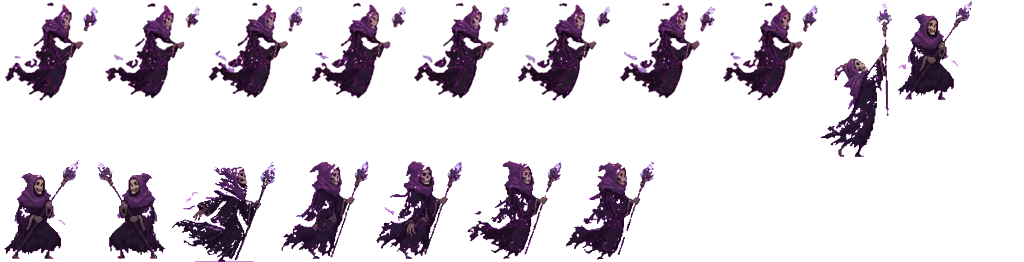
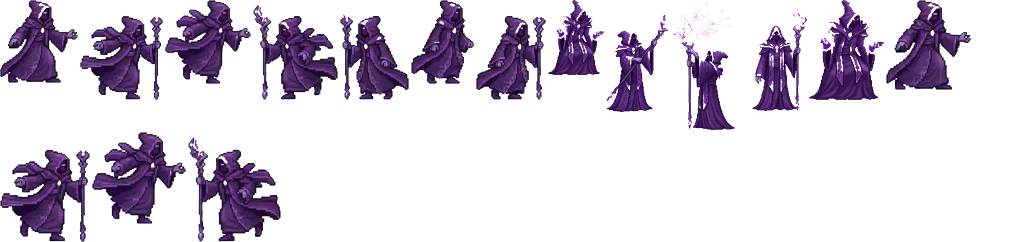
Monstruos y jefes rehechos en el estilo actual, retratos de jefes y música nueva
- Los 15 monstruos, Guardianes y Súper Jefes del Acto I rediseñados (Leonardo) con el mismo
  estilo que los de los mundos nuevos, con animaciones de movimiento y ataque
- Retratos de los Súper Jefes para los diálogos
- Música propia para Ciudad Hundida, Bosque de Cristal y la Ciudadela
- La misión personal del héroe se ofrece al terminar los diálogos

Claude-Session: https://claude.ai/code/session_015RNUyaQ6fKR3Ufego5oPP2

diff --git a/www/js/mon_data.js b/www/js/mon_data.js
@@ -1,3 +1,3 @@
 /* Generado por tools/art/build_monsters.py y build_monsters2.py — no editar a mano. */
 'use strict';
-const MON_ANIM = {"tofu":{"bh":100,"move":[[0,0,112,80,47.0,79.8],[114,0,114,100,51.9,99.4],[230,0,118,103,56.9,102.4],[350,0,123,108,57.3,107.1],[475,0,115,88,50.7,87.5],[592,0,115,100,51.5,99.4],[709,0,115,107,58.1,106.5],[826,0,133,102,63.8,101.2],[0,110,115,87,49.7,86.3],[117,110,114,105,56.7,104.2],[233,110,112,115,56.3,114.3],[347,110,129,119,61.0,118.5]],"attack":[[478,110,155,88,59.4,87.6],[635,110,139,101,66.4,100.9],[776,110,156,104,71.0,103.4],[0,231,140,133,52.7,132.5]],"hurt":[[142,231,136,101,73.4,100.4]]},"bouftou":{"bh":100,"move":[[0,0,133,101,56.0,100.6],[135,0,133,101,50.3,100.0],[270,0,134,101,51.9,100.0],[406,0,136,101,53.5,100.0]],"attack":[[544,0,130,97,54.6,96.1],[676,0,131,95,71.4,94.8],[809,0,131,110,47.5,109.7],[0,112,131,102,57.7,101.3],[133,112,131,101,53.7,100.0]],"hurt":[[266,112,122,100,48.8,100.0]]},"arakne":{"bh":100,"move":[[0,0,116,95,46.5,94.9],[118,0,98,100,41.6,100.0],[218,0,113,100,44.8,100.0],[333,0,96,101,40.3,100.5]],"attack":[[431,0,98,100,41.6,99.8],[531,0,96,101,40.2,100.2]],"hurt":[[629,0,154,100,49.3,100.0]]},"pissenlit":{"bh":100,"move":[[0,0,92,100,33.5,100.0],[94,0,92,100,30.6,100.0],[188,0,92,101,31.5,100.8],[282,0,92,101,33.0,100.8],[376,0,92,100,31.9,100.0],[470,0,92,101,32.4,100.4],[564,0,92,100,33.8,99.6],[658,0,92,100,31.7,100.0]],"attack":[[752,0,70,100,36.0,100.0],[824,0,71,100,36.0,100.0],[0,103,218,100,34.1,100.0]],"hurt":[[220,103,94,100,34.6,100.0]]},"craqueleur":{"bh":100,"move":[[0,0,85,99,41.0,98.5],[87,0,85,99,40.4,98.9],[174,0,88,99,42.7,98.9],[264,0,87,99,42.4,98.9],[353,0,89,102,43.2,101.5],[444,0,85,103,41.0,102.6],[531,0,88,101,42.9,101.1],[621,0,84,102,41.7,101.5]],"attack":[[707,0,88,100,42.5,99.2],[797,0,88,100,42.7,99.2],[887,0,82,126,43.2,125.6],[0,128,85,109,52.2,108.3],[87,128,88,100,42.3,100.0],[177,128,88,100,42.6,100.0],[267,128,88,100,42.8,100.0],[357,128,85,100,42.2,100.0]],"hurt":[[444,128,103,100,54.8,100.0]]},"bouftouRoyal":{"bh":100,"move":[[0,0,121,100,47.6,99.5],[123,0,121,100,46.8,100.0],[246,0,121,100,44.8,99.5],[369,0,121,100,46.3,100.0],[492,0,121,101,45.1,100.5],[615,0,121,101,47.1,100.5],[738,0,121,100,42.9,100.0],[861,0,121,101,43.8,100.5]],"attack":[[0,103,94,116,58.9,115.6],[96,103,132,101,49.8,101.1],[230,103,89,99,32.5,98.9],[321,103,174,98,87.5,97.4],[497,103,145,103,74.9,103.0],[644,103,169,96,78.6,95.9]],"hurt":[[815,103,106,100,35.0,100.0]],"idle":[[0,221,116,100,71.3,100.0],[118,221,118,100,72.2,100.0],[238,221,117,100,71.8,100.0],[357,221,117,100,71.8,99.6]]},"reinaTeje":{"bh":100,"move":[[0,0,101,101,41.9,100.4],[103,0,101,100,41.8,100.0],[206,0,101,100,41.2,100.0],[309,0,100,100,41.5,100.0],[411,0,101,100,41.7,100.0],[514,0,101,100,41.8,99.6],[617,0,101,100,41.2,100.0],[720,0,100,100,40.9,99.6],[822,0,101,100,41.2,100.0],[0,103,101,101,41.9,100.4],[103,103,101,100,41.2,100.0],[206,103,100,98,41.8,97.9]],"attack":[[308,103,97,100,39.7,99.1],[407,103,97,97,39.9,96.6],[506,103,97,105,39.9,104.7],[605,103,97,113,40.0,112.3],[704,103,97,100,39.6,100.0],[803,103,97,100,39.5,100.0],[902,103,97,109,39.8,108.9],[0,218,97,100,39.9,100.0]],"hurt":[[99,218,94,100,44.5,100.0]],"idle":[[195,218,98,100,41.9,100.0],[295,218,100,100,41.3,100.0],[397,218,98,100,41.7,100.0],[497,218,100,100,41.0,100.0]]},"colosoHielo":{"bh":100,"move":[[0,0,96,100,53.0,100.0],[98,0,99,103,43.6,102.8],[199,0,98,100,39.2,99.6],[299,0,99,103,43.2,102.4],[400,0,97,100,41.8,99.6],[499,0,97,100,38.4,100.0],[598,0,98,100,40.1,100.0],[698,0,98,100,40.5,100.0],[798,0,98,101,39.4,100.4],[898,0,97,100,38.7,100.0],[0,105,98,100,39.2,100.0],[100,105,98,101,40.3,100.4]],"attack":[[200,105,137,102,75.2,101.3],[339,105,96,122,39.1,121.6],[437,105,115,103,41.5,102.1],[554,105,105,100,60.8,100.0],[661,105,125,102,66.9,101.3],[788,105,107,100,37.5,100.0],[897,105,115,100,71.9,99.2],[0,229,105,100,53.6,99.6],[107,229,91,94,49.4,93.2]],"hurt":[[200,229,103,100,43.1,100.0]],"idle":[[305,229,96,100,42.1,100.0],[403,229,96,100,42.0,100.0],[501,229,91,101,42.6,100.4],[594,229,96,100,41.9,100.0]]},"tofuRoyal":{"bh":100,"move":[[0,0,79,120,34.4,119.3],[81,0,109,93,57.0,93.0],[192,0,96,101,41.5,100.9],[290,0,86,104,34.6,103.1],[378,0,86,115,35.2,114.9],[466,0,78,68,68.7,67.1],[546,0,78,86,42.9,86.0],[626,0,95,100,44.7,99.1]],"attack":[[723,0,90,96,51.7,96.0],[815,0,94,101,35.2,100.4],[911,0,93,102,38.9,102.0],[0,122,65,116,30.8,115.9],[67,122,104,72,24.8,71.7],[173,122,106,54,30.3,53.4],[281,122,103,96,52.0,95.6],[386,122,102,100,27.7,100.0],[490,122,102,121,59.6,120.7]],"hurt":[[594,122,100,100,27.2,100.0]],"idle":[[696,122,97,103,40.9,102.7],[795,122,93,98,42.1,97.3],[890,122,125,108,30.0,107.2],[0,245,93,97,41.8,96.3]]},"hechicero":{"bh":100,"move":[[0,0,99,101,42.9,100.0],[101,0,100,101,43.5,100.7],[203,0,101,101,44.5,100.7],[306,0,101,101,43.9,100.0],[409,0,101,101,43.8,100.0],[512,0,101,101,43.9,100.0],[615,0,101,101,43.5,100.0],[718,0,100,101,43.6,100.0]],"attack":[[820,0,72,157,31.0,157.2],[894,0,79,100,33.4,99.5],[0,159,94,100,33.8,99.8],[96,159,74,100,39.9,100.2]],"hurt":[[172,159,107,103,48.8,102.8]],"idle":[[281,159,88,100,32.4,100.0],[371,159,91,100,35.7,100.0],[464,159,98,100,43.6,100.0],[564,159,91,101,34.3,100.3]]},"S_ceniza":{"bh":100,"move":[[0,0,98,100,43.1,99.1],[100,0,101,100,42.4,99.1],[203,0,99,100,43.3,99.7],[304,0,100,101,34.3,100.3],[406,0,101,102,36.0,100.9],[509,0,98,101,37.7,100.3]],"attack":[[609,0,92,102,45.2,101.5],[703,0,87,102,42.8,101.9],[792,0,97,100,50.8,99.6],[891,0,88,97,48.6,96.9],[0,104,89,101,45.2,100.8],[91,104,90,101,46.5,100.4],[183,104,92,101,45.9,100.4],[277,104,90,98,33.9,98.1],[369,104,93,101,52.3,100.8],[464,104,93,101,50.6,100.4],[559,104,95,100,54.7,99.2],[656,104,88,98,29.6,98.1]],"hurt":[[746,104,81,100,33.3,100.0]],"idle":[[829,104,100,100,37.1,99.9],[0,207,100,100,37.3,99.9],[102,207,101,101,37.4,100.3],[205,207,100,100,37.4,100.1]]},"S_pantano":{"bh":100,"move":[[0,0,153,101,84.7,100.0],[155,0,153,101,85.1,100.0],[310,0,154,101,86.0,100.0],[466,0,154,101,85.9,100.0],[622,0,153,101,85.2,100.0],[777,0,152,101,84.2,100.0],[0,103,154,101,85.7,100.0],[156,103,155,102,87.8,100.9],[313,103,152,101,85.7,100.0],[467,103,158,101,86.8,100.0],[627,103,158,101,79.9,100.0],[787,103,158,101,85.6,100.0]],"attack":[[0,207,153,100,82.3,100.0],[155,207,155,101,84.5,101.0],[312,207,153,101,83.0,100.5],[467,207,160,97,47.7,96.1],[629,207,154,118,84.5,117.9],[785,207,152,100,83.1,99.5],[0,327,151,100,82.2,99.5],[153,327,154,121,84.3,120.8],[309,327,152,100,82.7,100.0]],"hurt":[[463,327,151,106,44.0,105.9]],"idle":[[616,327,153,100,84.9,99.7],[771,327,151,100,84.0,99.4],[0,450,152,101,84.5,100.3],[154,450,152,101,84.7,100.3]]},"S_glaciar":{"bh":100,"move":[[0,0,114,100,45.8,100.0],[116,0,114,100,45.9,100.0],[232,0,113,100,45.4,99.7],[347,0,114,100,45.6,100.0],[463,0,113,101,40.6,100.3],[578,0,114,100,46.0,100.0],[694,0,114,100,45.7,100.0],[810,0,114,100,46.1,100.0],[0,103,114,101,45.4,100.3]],"attack":[[116,103,91,99,50.0,98.4],[209,103,94,100,44.3,99.2],[305,103,90,140,45.9,139.9],[397,103,92,100,43.7,100.0],[491,103,95,100,44.8,99.2],[588,103,93,100,43.0,100.0],[683,103,101,101,56.1,100.8],[786,103,93,102,47.2,101.9]],"hurt":[[881,103,111,100,45.9,100.0]],"idle":[[0,245,115,101,46.4,100.8],[117,245,115,101,46.3,100.6],[234,245,115,100,46.2,99.4],[351,245,114,99,45.8,98.7]]},"S_desierto":{"bh":100,"move":[[0,0,79,100,36.7,100.0],[81,0,78,100,36.4,100.0],[161,0,79,96,36.3,95.6],[242,0,88,90,41.3,89.3],[332,0,78,100,36.1,100.0],[412,0,79,101,36.6,101.0],[493,0,79,102,36.3,101.3],[574,0,88,99,42.4,98.7],[664,0,79,101,36.4,101.0],[745,0,79,101,36.7,100.7],[826,0,79,101,36.5,100.3]],"attack":[[0,104,147,285,93.3,284.5],[149,104,61,100,26.8,100.1],[212,104,61,100,26.8,99.9],[275,104,72,102,38.6,101.3]],"hurt":[[349,104,98,100,46.1,100.0]],"idle":[[449,104,96,100,45.2,99.3],[547,104,96,99,45.3,99.1],[645,104,97,101,45.7,100.7],[744,104,97,101,45.9,100.7]]},"S_abismo":{"bh":100,"move":[[0,0,89,101,41.1,100.2],[91,0,90,101,41.0,100.2],[183,0,89,101,41.0,100.2],[274,0,89,101,40.8,100.2],[365,0,90,100,40.7,99.8],[457,0,90,100,41.3,99.8],[549,0,89,100,40.7,99.8],[640,0,89,100,40.8,99.8]],"attack":[[731,0,83,144,34.1,143.6],[816,0,82,176,31.9,176.0],[900,0,110,104,48.2,103.2],[0,178,85,104,41.5,103.2],[87,178,104,97,49.7,96.8],[193,178,79,97,36.1,96.8],[274,178,79,97,30.5,96.8],[355,178,90,97,52.4,96.8]],"hurt":[[447,178,94,100,45.3,100.0]],"idle":[[543,178,58,100,24.3,100.0],[603,178,57,100,24.2,100.0],[662,178,58,100,24.6,100.0],[722,178,58,100,24.3,100.0]]},"cangrejo":{"bh":100,"move":[[0,0,125,101,61.5,100.0],[127,0,127,100,51.6,99.3],[256,0,128,101,48.4,100.0],[386,0,125,101,62.1,100.0],[513,0,124,99,60.1,98.7],[639,0,126,101,62.4,100.0]],"attack":[[767,0,136,100,54.6,100.0],[0,103,138,100,54.8,100.0],[140,103,169,106,54.9,105.3],[311,103,137,99,66.5,98.6]],"hurt":[[450,103,136,100,54.6,100.0]],"idle":[[588,103,125,101,61.5,100.0],[715,103,127,100,51.6,99.3],[844,103,128,101,48.4,100.0],[0,211,125,101,62.1,100.0]]},"medusa":{"bh":100,"move":[[0,0,53,102,26.0,101.3],[55,0,48,99,24.8,98.7],[105,0,55,100,29.2,100.1],[162,0,61,100,33.6,100.1],[225,0,64,100,35.8,99.9],[291,0,50,99,23.9,99.0]],"attack":[[343,0,67,104,41.1,103.4],[412,0,81,88,50.1,87.8],[495,0,85,97,52.5,96.6],[582,0,78,105,35.1,104.4]],"hurt":[[662,0,65,100,39.8,100.0]],"idle":[[729,0,53,101,25.9,101.2],[784,0,48,99,24.7,98.6],[834,0,55,100,29.1,100.0],[891,0,61,100,33.6,100.0]]},"triton":{"bh":100,"move":[[0,0,105,100,41.2,99.0],[107,0,105,100,43.4,99.0],[214,0,104,102,41.9,101.4],[320,0,104,100,39.5,99.0],[426,0,105,101,39.3,101.0],[533,0,104,101,38.9,101.0]],"attack":[[639,0,99,97,47.6,97.1],[740,0,109,100,56.8,99.4],[851,0,109,104,52.8,103.9],[0,106,95,101,51.2,100.6]],"hurt":[[97,106,102,100,49.0,100.0]],"idle":[[201,106,106,100,41.6,100.0],[309,106,106,100,43.8,100.0],[417,106,105,103,42.3,102.4],[524,106,105,100,39.8,100.0]]},"kraken":{"bh":100,"move":[[0,0,110,99,59.4,98.4],[112,0,108,104,55.2,103.2],[222,0,103,104,49.0,103.2],[327,0,102,104,53.3,103.2],[431,0,102,100,55.7,100.0],[535,0,104,100,56.3,100.0],[641,0,103,100,55.2,100.0],[746,0,103,100,55.4,100.0]],"attack":[[851,0,98,100,43.9,100.2],[0,106,103,112,55.9,111.1],[105,106,98,96,49.9,95.8],[205,106,86,100,41.8,99.8]],"hurt":[[293,106,98,100,43.8,100.0]],"idle":[[393,106,107,96,57.6,95.4],[502,106,104,100,53.5,100.0],[608,106,100,100,47.5,100.0],[710,106,98,100,51.6,100.0]]},"S_hundida":{"bh":100,"move":[[0,0,74,100,42.3,100.0],[76,0,76,100,43.8,100.0],[154,0,77,100,43.0,100.0],[233,0,75,100,43.2,100.0],[310,0,76,100,44.6,100.0],[388,0,79,100,44.4,100.0]],"attack":[[469,0,78,107,38.8,106.6],[549,0,82,83,39.8,82.7],[633,0,87,106,47.1,105.3],[722,0,80,98,42.2,97.5]],"hurt":[[804,0,73,100,36.4,100.0]],"idle":[[879,0,74,100,42.3,100.0],[0,109,76,100,43.8,100.0],[78,109,77,100,43.0,100.0],[157,109,75,100,43.2,100.0]]},"duende":{"bh":100,"move":[[0,0,76,100,34.3,99.6],[78,0,82,105,40.7,105.0],[162,0,83,107,39.9,107.0],[247,0,84,99,41.0,98.4],[333,0,81,100,40.4,100.0],[416,0,74,100,34.3,100.0]],"attack":[[492,0,83,93,40.1,92.4],[577,0,94,100,35.7,98.3],[673,0,94,102,34.0,101.7],[769,0,82,103,45.6,102.8]],"hurt":[[853,0,90,100,43.4,100.0]],"idle":[[945,0,74,98,33.5,97.3],[0,109,80,103,39.8,102.7],[82,109,81,105,38.9,104.5],[165,109,83,97,40.1,96.2]]},"polilla":{"bh":100,"move":[[0,0,73,106,39.8,105.1],[75,0,18,62,14.0,61.8],[95,0,74,103,28.3,102.4],[171,0,70,101,44.9,100.4],[243,0,26,74,21.9,50.0],[271,0,64,100,29.5,99.6]],"attack":[[337,0,71,98,37.8,97.4],[410,0,80,110,44.9,109.2],[492,0,94,116,39.6,95.4],[588,0,70,103,35.8,102.6]],"hurt":[[660,0,73,100,38.8,100.0]],"idle":[[735,0,72,104,39.3,103.7],[809,0,17,61,13.8,61.0],[828,0,73,101,27.9,101.0],[903,0,70,99,44.3,99.0]]},"golemC":{"bh":100,"move":[[0,0,90,101,45.0,100.2],[92,0,85,100,39.7,99.8],[179,0,91,101,45.4,100.2],[272,0,87,101,37.9,100.2],[361,0,81,100,38.6,99.8],[444,0,90,100,47.7,99.8]],"attack":[[536,0,92,100,42.8,99.4],[630,0,101,101,44.0,100.6],[733,0,101,128,48.8,127.4],[836,0,89,100,49.6,99.4]],"hurt":[[927,0,93,100,43.0,100.0]],"idle":[[0,130,90,100,44.9,100.0],[92,130,85,100,39.7,99.6],[179,130,91,100,45.3,100.0],[272,130,87,100,37.8,100.0]]},"ciervo":{"bh":100,"move":[[0,0,67,100,26.9,100.0],[69,0,69,96,29.4,95.8],[140,0,61,106,24.3,106.0],[203,0,69,101,27.6,100.3],[274,0,73,100,27.1,100.0]],"attack":[[349,0,59,111,27.7,111.1],[410,0,62,95,37.8,94.8],[474,0,62,89,15.2,89.3],[538,0,55,111,23.5,110.7]],"hurt":[[595,0,53,100,24.9,100.0]],"idle":[[650,0,67,100,26.9,99.8],[719,0,69,96,29.3,95.6],[790,0,61,106,24.3,105.9],[853,0,69,100,27.6,100.2]]},"S_cristal":{"bh":100,"move":[[0,0,72,104,39.0,103.7],[74,0,58,103,31.5,102.6],[134,0,64,100,30.6,100.0],[200,0,64,99,27.7,98.9],[266,0,71,104,36.1,104.0]],"attack":[[339,0,64,95,28.6,95.1],[405,0,67,107,39.4,106.7],[474,0,76,98,27.8,97.9],[552,0,70,102,39.2,102.1]],"hurt":[[624,0,67,100,30.1,100.0]],"idle":[[693,0,72,105,39.2,104.3],[767,0,59,103,31.6,103.2],[828,0,65,101,30.8,100.6],[895,0,64,100,27.9,99.4]]},"guardiaR":{"bh":100,"move":[[0,0,64,102,33.1,101.8],[66,0,32,96,16.4,95.6],[100,0,66,99,35.5,98.5],[168,0,66,102,39.8,101.5],[236,0,33,102,25.0,101.5],[271,0,55,99,30.9,98.2]],"attack":[[328,0,99,99,50.6,98.9],[429,0,111,100,50.5,100.0],[542,0,111,100,50.4,100.0],[655,0,101,108,60.9,107.6]],"hurt":[[758,0,100,100,51.2,100.0]],"idle":[[860,0,64,102,33.1,101.8],[926,0,32,96,16.4,95.6],[0,110,66,99,35.5,98.5],[68,110,66,102,39.8,101.5]]},"ojo":{"bh":100,"move":[[0,0,111,101,48.7,100.0],[113,0,107,101,44.5,100.0],[222,0,111,101,48.7,100.0],[335,0,106,101,44.3,100.0],[443,0,111,101,50.5,100.0],[556,0,110,101,56.2,100.0]],"attack":[[668,0,115,101,50.9,100.4],[785,0,119,100,51.9,100.0],[0,103,127,100,55.4,99.6],[129,103,120,100,51.0,100.0]],"hurt":[[251,103,114,100,50.7,100.0]],"idle":[[367,103,111,101,48.7,100.0],[480,103,107,101,44.5,100.0],[589,103,111,101,48.7,100.0],[702,103,106,101,44.3,100.0]]},"sombraC":{"bh":100,"move":[[0,0,73,100,38.6,99.6],[75,0,73,100,38.3,100.0],[150,0,73,98,38.0,98.0],[225,0,72,98,38.1,98.0],[299,0,73,98,37.9,97.7],[374,0,72,98,37.9,97.7],[448,0,75,102,39.1,101.2],[525,0,75,102,39.4,101.2],[602,0,75,102,39.3,101.2],[679,0,76,101,38.1,100.8],[757,0,75,102,39.1,101.2]],"attack":[[834,0,88,100,39.0,100.0],[924,0,90,100,36.8,100.0],[0,104,95,100,44.6,100.0],[97,104,88,98,35.9,97.8]],"hurt":[[187,104,88,100,39.0,100.0]],"idle":[[277,104,74,101,39.1,100.8],[353,104,74,102,38.7,101.2],[429,104,74,100,38.5,99.2],[505,104,73,100,38.5,99.2]]},"carcelero":{"bh":100,"move":[[0,0,68,100,37.5,100.0],[70,0,71,101,42.4,100.4],[143,0,68,100,37.0,99.6],[213,0,70,100,42.3,99.6],[285,0,71,100,39.4,100.0],[358,0,67,101,37.4,100.4]],"attack":[[427,0,97,134,43.8,133.4],[526,0,90,108,33.7,107.6],[618,0,93,93,46.0,92.4],[713,0,108,92,49.4,91.7]],"hurt":[[823,0,73,100,32.8,100.0]],"idle":[[898,0,68,101,37.6,100.2],[0,136,71,101,42.5,100.6],[73,136,68,100,37.0,99.8],[143,136,70,100,42.4,99.8]]},"S_ciudadela":{"bh":100,"move":[[0,0,71,99,35.5,98.9],[73,0,66,103,36.1,102.2],[141,0,66,99,31.9,98.5],[209,0,67,111,37.1,109.3],[278,0,68,104,33.2,103.4],[348,0,70,102,31.6,101.5]],"attack":[[420,0,152,103,28.1,102.8],[574,0,226,108,190.8,107.4]],"hurt":[[802,0,148,100,27.3,100.0]],"idle":[[0,113,73,102,36.4,101.3],[75,113,68,105,37.0,104.8],[145,113,68,101,32.7,101.0],[215,113,69,114,38.1,112.0]]}};
+const MON_ANIM = {"tofu":{"bh":100,"move":[[0,0,72,108,38.5,107.3],[74,0,72,99,41.2,99.0],[148,0,71,103,40.2,102.6],[221,0,69,108,36.8,107.3],[292,0,68,101,36.0,100.6],[362,0,75,94,42.4,93.9],[439,0,80,96,48.5,95.8],[521,0,72,101,39.9,101.0]],"attack":[[595,0,83,128,45.5,127.4],[680,0,130,105,41.0,105.1],[0,130,212,103,174.7,102.5]],"hurt":[[214,130,65,100,35.7,100.0]],"idle":[[281,130,69,103,36.7,102.3],[352,130,69,95,39.3,94.3],[423,130,68,98,38.3,97.7],[493,130,66,103,35.0,102.3]]},"bouftou":{"bh":100,"move":[[0,0,101,101,44.2,100.0],[103,0,102,101,46.0,100.0],[207,0,101,99,47.9,98.5],[310,0,101,101,42.8,100.0],[413,0,101,99,46.2,98.5],[516,0,101,101,44.3,100.0]],"attack":[[619,0,115,99,43.1,98.9],[736,0,134,101,55.6,101.1],[872,0,123,96,49.0,95.5],[0,103,118,104,52.7,103.6]],"hurt":[[120,103,116,100,43.6,100.0]],"idle":[[238,103,101,101,44.2,100.0],[341,103,102,101,46.0,100.0],[445,103,101,99,47.9,98.5],[548,103,101,101,42.8,100.0]]},"arakne":{"bh":100,"move":[[0,0,110,100,40.5,100.0],[112,0,110,100,40.6,100.0],[224,0,110,100,41.3,100.0],[336,0,110,100,40.7,99.6],[448,0,110,100,41.3,100.0],[560,0,111,100,41.4,99.6],[673,0,110,100,41.1,100.0],[785,0,110,100,42.2,99.6]],"attack":[[897,0,100,101,40.4,100.2],[0,103,123,94,44.1,93.4],[125,103,116,102,57.2,102.1],[243,103,109,100,43.0,99.8]],"hurt":[[354,103,100,100,40.4,100.0]],"idle":[[456,103,110,100,40.5,100.0],[568,103,110,100,40.6,100.0],[680,103,110,100,41.3,100.0],[792,103,110,100,40.7,99.6]]},"pissenlit":{"bh":100,"move":[[0,0,84,100,39.1,99.8],[86,0,81,100,39.0,99.8],[169,0,84,101,42.1,100.2],[255,0,80,97,40.9,96.4],[337,0,84,101,44.1,100.2],[423,0,85,101,44.6,100.2]],"attack":[[510,0,81,100,40.9,100.0],[593,0,81,100,43.3,100.0],[676,0,94,99,57.9,99.1],[772,0,80,101,36.5,100.3]],"hurt":[[854,0,81,100,40.9,100.0]],"idle":[[937,0,84,100,39.2,100.0],[0,103,81,100,39.1,100.0],[83,103,84,101,42.2,100.5],[169,103,80,97,41.0,96.7]]},"craqueleur":{"bh":100,"move":[[0,0,114,101,47.9,100.0],[116,0,106,101,51.2,100.0],[224,0,96,101,35.5,100.6],[322,0,107,101,54.6,100.0],[431,0,91,101,42.3,100.6],[524,0,114,101,46.9,100.0]],"attack":[[640,0,104,97,45.5,96.2],[746,0,95,120,44.5,120.1],[843,0,92,95,47.3,94.5],[0,122,102,104,51.9,103.8]],"hurt":[[104,122,109,100,47.3,100.0]],"idle":[[215,122,114,101,47.9,100.0],[331,122,106,101,51.2,100.0],[439,122,96,101,35.5,100.6],[537,122,107,101,54.6,100.0]]},"bouftouRoyal":{"bh":100,"move":[[0,0,151,100,63.6,99.5],[153,0,151,100,63.4,100.0],[306,0,148,98,63.0,97.1],[456,0,149,100,62.4,99.5],[607,0,149,100,65.9,100.0],[758,0,149,100,63.3,100.0],[0,102,148,100,63.8,100.0],[150,102,148,100,60.7,100.0]],"attack":[[300,102,144,126,55.7,125.2],[446,102,147,98,57.7,97.4],[595,102,152,101,72.0,100.7],[749,102,144,100,66.1,99.3]],"hurt":[[895,102,115,100,44.5,100.0]],"idle":[[0,230,151,100,63.9,100.0],[153,230,151,101,63.7,100.5],[306,230,149,98,63.3,97.6],[457,230,150,100,62.7,100.0]]},"reinaTeje":{"bh":100,"move":[[0,0,136,101,61.5,100.3],[138,0,125,96,65.8,95.5],[265,0,137,100,66.6,99.7],[404,0,139,101,69.5,100.3],[545,0,134,97,66.2,96.2],[681,0,140,101,65.4,100.3]],"attack":[[823,0,132,100,71.3,99.8],[0,103,144,107,74.3,106.3],[146,103,144,101,77.7,100.2],[292,103,132,100,73.0,99.8]],"hurt":[[426,103,132,100,71.4,100.0]],"idle":[[560,103,136,101,61.5,100.3],[698,103,125,96,65.8,95.5],[825,103,137,100,66.6,99.7],[0,212,139,101,69.5,100.3]]},"colosoHielo":{"bh":100,"move":[[0,0,87,101,45.8,100.7],[89,0,90,99,51.7,98.1],[181,0,87,101,43.2,101.1],[270,0,87,100,48.3,99.6],[359,0,79,98,31.5,97.8],[440,0,89,100,41.3,100.0],[531,0,88,100,43.7,100.0],[621,0,87,101,43.5,100.4]],"attack":[[710,0,92,103,40.8,102.6],[804,0,100,105,49.6,104.7],[906,0,96,100,54.7,99.4],[0,107,90,98,42.0,98.0]],"hurt":[[92,107,90,100,39.7,100.0]],"idle":[[184,107,87,101,45.7,100.6],[273,107,90,98,51.6,98.0],[365,107,87,101,43.1,100.9],[454,107,87,100,48.2,99.4]]},"tofuRoyal":{"bh":100,"move":[[0,0,77,100,45.9,100.0],[79,0,79,101,46.6,100.4],[160,0,87,100,43.7,99.6],[249,0,80,92,43.8,92.1],[331,0,75,101,44.3,100.8]],"attack":[[408,0,103,74,40.5,73.4],[513,0,105,91,62.6,90.6],[620,0,104,110,48.5,109.4],[726,0,103,110,65.3,109.4]],"hurt":[[831,0,153,110,60.3,109.2]],"idle":[[0,112,77,101,46.0,100.2],[79,112,79,101,46.7,100.6],[160,112,87,100,43.8,99.8],[249,112,81,93,43.9,92.3]]},"hechicero":{"bh":100,"move":[[0,0,78,83,30.2,82.5],[80,0,83,100,44.3,100.0],[165,0,86,84,38.3,83.5],[253,0,85,100,43.9,100.0],[340,0,69,100,37.6,100.0],[411,0,63,84,28.2,83.5],[476,0,70,100,30.7,100.0]],"attack":[[548,0,56,75,26.8,74.6],[606,0,63,112,22.8,111.3],[671,0,70,130,38.5,129.4],[743,0,64,111,33.3,110.5]],"hurt":[[809,0,75,100,36.0,100.0]],"idle":[[886,0,85,90,32.9,89.9],[0,132,90,110,48.3,109.0],[92,132,94,92,41.8,91.0],[188,132,93,110,47.8,109.0]]},"S_ceniza":{"bh":100,"move":[[0,0,129,101,53.8,100.4],[131,0,129,100,54.5,100.0],[262,0,131,100,53.2,100.0],[395,0,126,100,52.6,100.0],[523,0,128,100,50.9,99.2],[653,0,129,100,53.0,99.6],[784,0,129,100,54.4,99.6],[0,103,127,101,52.3,100.4]],"attack":[[129,103,141,100,70.4,100.0],[272,103,141,100,70.4,100.0],[415,103,141,100,70.4,100.0],[558,103,141,100,70.4,100.0]],"hurt":[[701,103,141,100,70.4,100.0]],"idle":[[844,103,129,101,53.8,100.4],[0,206,129,100,54.5,100.0],[131,206,131,100,53.2,100.0],[264,206,126,100,52.6,100.0]]},"S_pantano":{"bh":100,"move":[[0,0,169,100,67.7,99.7],[171,0,169,100,67.5,99.7],[342,0,168,100,67.0,99.7],[512,0,167,100,67.1,99.7],[681,0,169,101,68.1,100.3],[852,0,169,101,68.1,100.3],[0,103,168,101,67.8,100.3],[170,103,167,101,68.0,100.3]],"attack":[[339,103,312,282,148.3,281.5],[653,103,162,207,76.8,206.5]],"hurt":[[0,387,319,289,152.1,288.7]],"idle":[[321,387,170,101,67.9,100.0],[493,387,170,101,67.7,100.0],[665,387,168,101,67.2,100.0],[835,387,168,101,67.3,100.0]]},"S_glaciar":{"bh":100,"move":[[0,0,68,100,33.1,99.3],[70,0,77,101,38.2,100.2],[149,0,91,101,31.2,100.7],[242,0,107,100,32.4,99.8],[351,0,81,99,29.4,98.4],[434,0,106,103,32.2,102.1]],"attack":[[542,0,76,100,37.2,99.9],[620,0,86,100,51.6,100.1],[708,0,77,131,41.4,130.9],[787,0,95,98,58.0,97.7]],"hurt":[[884,0,76,100,37.3,100.0]],"idle":[[0,133,68,100,33.1,99.3],[70,133,77,101,38.2,100.2],[149,133,91,101,31.2,100.7],[242,133,107,100,32.4,99.8]]},"S_desierto":{"bh":100,"move":[[0,0,66,101,22.2,100.2],[68,0,64,101,22.0,100.2],[134,0,64,100,22.3,99.8],[200,0,67,100,23.7,99.8],[269,0,56,100,21.7,99.8],[327,0,59,101,21.5,100.2]],"attack":[[388,0,83,93,33.2,92.2],[473,0,102,100,23.4,100.0],[577,0,107,105,47.3,104.8],[686,0,90,100,26.5,100.0]],"hurt":[[778,0,90,100,36.0,100.0]],"idle":[[870,0,66,101,22.2,100.2],[938,0,64,101,22.0,100.2],[0,107,64,100,22.3,99.8],[66,107,67,100,23.7,99.8]]},"S_abismo":{"bh":100,"move":[[0,0,75,107,36.3,106.4],[77,0,80,107,41.7,106.4],[159,0,79,107,41.8,106.9],[240,0,78,107,42.3,106.9],[320,0,79,107,41.2,106.9],[401,0,78,108,36.4,107.3],[481,0,78,110,36.0,109.2],[561,0,78,109,36.0,108.7],[641,0,79,110,36.4,109.2],[722,0,78,110,36.3,109.2],[802,0,78,110,36.5,109.2],[882,0,79,110,36.3,109.2]],"attack":[[0,112,78,113,34.8,113.2],[80,112,94,113,31.4,112.5],[176,112,119,113,43.8,112.2],[297,112,92,113,58.0,112.5]],"hurt":[[391,112,77,112,34.4,111.8]],"idle":[[470,112,81,115,39.0,114.2],[553,112,86,115,44.8,114.2],[641,112,85,115,44.9,114.7],[728,112,84,115,45.4,114.7]]},"cangrejo":{"bh":100,"move":[[0,0,125,101,61.5,100.0],[127,0,127,100,51.6,99.3],[256,0,128,101,48.4,100.0],[386,0,125,101,62.1,100.0],[513,0,124,99,60.1,98.7],[639,0,126,101,62.4,100.0]],"attack":[[767,0,136,100,54.6,100.0],[0,103,138,100,54.8,100.0],[140,103,169,106,54.9,105.3],[311,103,137,99,66.5,98.6]],"hurt":[[450,103,136,100,54.6,100.0]],"idle":[[588,103,125,101,61.5,100.0],[715,103,127,100,51.6,99.3],[844,103,128,101,48.4,100.0],[0,211,125,101,62.1,100.0]]},"medusa":{"bh":100,"move":[[0,0,53,102,26.0,101.3],[55,0,48,99,24.8,98.7],[105,0,55,100,29.2,100.1],[162,0,61,100,33.6,100.1],[225,0,64,100,35.8,99.9],[291,0,50,99,23.9,99.0]],"attack":[[343,0,67,104,41.1,103.4],[412,0,81,88,50.1,87.8],[495,0,85,97,52.5,96.6],[582,0,78,105,35.1,104.4]],"hurt":[[662,0,65,100,39.8,100.0]],"idle":[[729,0,53,101,25.9,101.2],[784,0,48,99,24.7,98.6],[834,0,55,100,29.1,100.0],[891,0,61,100,33.6,100.0]]},"triton":{"bh":100,"move":[[0,0,105,100,41.2,99.0],[107,0,105,100,43.4,99.0],[214,0,104,102,41.9,101.4],[320,0,104,100,39.5,99.0],[426,0,105,101,39.3,101.0],[533,0,104,101,38.9,101.0]],"attack":[[639,0,99,97,47.6,97.1],[740,0,109,100,56.8,99.4],[851,0,109,104,52.8,103.9],[0,106,95,101,51.2,100.6]],"hurt":[[97,106,102,100,49.0,100.0]],"idle":[[201,106,106,100,41.6,100.0],[309,106,106,100,43.8,100.0],[417,106,105,103,42.3,102.4],[524,106,105,100,39.8,100.0]]},"kraken":{"bh":100,"move":[[0,0,110,99,59.4,98.4],[112,0,108,104,55.2,103.2],[222,0,103,104,49.0,103.2],[327,0,102,104,53.3,103.2],[431,0,102,100,55.7,100.0],[535,0,104,100,56.3,100.0],[641,0,103,100,55.2,100.0],[746,0,103,100,55.4,100.0]],"attack":[[851,0,98,100,43.9,100.2],[0,106,103,112,55.9,111.1],[105,106,98,96,49.9,95.8],[205,106,86,100,41.8,99.8]],"hurt":[[293,106,98,100,43.8,100.0]],"idle":[[393,106,107,96,57.6,95.4],[502,106,104,100,53.5,100.0],[608,106,100,100,47.5,100.0],[710,106,98,100,51.6,100.0]]},"S_hundida":{"bh":100,"move":[[0,0,74,100,42.3,100.0],[76,0,76,100,43.8,100.0],[154,0,77,100,43.0,100.0],[233,0,75,100,43.2,100.0],[310,0,76,100,44.6,100.0],[388,0,79,100,44.4,100.0]],"attack":[[469,0,78,107,38.8,106.6],[549,0,82,83,39.8,82.7],[633,0,87,106,47.1,105.3],[722,0,80,98,42.2,97.5]],"hurt":[[804,0,73,100,36.4,100.0]],"idle":[[879,0,74,100,42.3,100.0],[0,109,76,100,43.8,100.0],[78,109,77,100,43.0,100.0],[157,109,75,100,43.2,100.0]]},"duende":{"bh":100,"move":[[0,0,76,100,34.3,99.6],[78,0,82,105,40.7,105.0],[162,0,83,107,39.9,107.0],[247,0,84,99,41.0,98.4],[333,0,81,100,40.4,100.0],[416,0,74,100,34.3,100.0]],"attack":[[492,0,83,93,40.1,92.4],[577,0,94,100,35.7,98.3],[673,0,94,102,34.0,101.7],[769,0,82,103,45.6,102.8]],"hurt":[[853,0,90,100,43.4,100.0]],"idle":[[945,0,74,98,33.5,97.3],[0,109,80,103,39.8,102.7],[82,109,81,105,38.9,104.5],[165,109,83,97,40.1,96.2]]},"polilla":{"bh":100,"move":[[0,0,73,106,39.8,105.1],[75,0,18,62,14.0,61.8],[95,0,74,103,28.3,102.4],[171,0,70,101,44.9,100.4],[243,0,26,74,21.9,50.0],[271,0,64,100,29.5,99.6]],"attack":[[337,0,71,98,37.8,97.4],[410,0,80,110,44.9,109.2],[492,0,94,116,39.6,95.4],[588,0,70,103,35.8,102.6]],"hurt":[[660,0,73,100,38.8,100.0]],"idle":[[735,0,72,104,39.3,103.7],[809,0,17,61,13.8,61.0],[828,0,73,101,27.9,101.0],[903,0,70,99,44.3,99.0]]},"golemC":{"bh":100,"move":[[0,0,90,101,45.0,100.2],[92,0,85,100,39.7,99.8],[179,0,91,101,45.4,100.2],[272,0,87,101,37.9,100.2],[361,0,81,100,38.6,99.8],[444,0,90,100,47.7,99.8]],"attack":[[536,0,92,100,42.8,99.4],[630,0,101,101,44.0,100.6],[733,0,101,128,48.8,127.4],[836,0,89,100,49.6,99.4]],"hurt":[[927,0,93,100,43.0,100.0]],"idle":[[0,130,90,100,44.9,100.0],[92,130,85,100,39.7,99.6],[179,130,91,100,45.3,100.0],[272,130,87,100,37.8,100.0]]},"ciervo":{"bh":100,"move":[[0,0,67,100,26.9,100.0],[69,0,69,96,29.4,95.8],[140,0,61,106,24.3,106.0],[203,0,69,101,27.6,100.3],[274,0,73,100,27.1,100.0]],"attack":[[349,0,59,111,27.7,111.1],[410,0,62,95,37.8,94.8],[474,0,62,89,15.2,89.3],[538,0,55,111,23.5,110.7]],"hurt":[[595,0,53,100,24.9,100.0]],"idle":[[650,0,67,100,26.9,99.8],[719,0,69,96,29.3,95.6],[790,0,61,106,24.3,105.9],[853,0,69,100,27.6,100.2]]},"S_cristal":{"bh":100,"move":[[0,0,72,104,39.0,103.7],[74,0,58,103,31.5,102.6],[134,0,64,100,30.6,100.0],[200,0,64,99,27.7,98.9],[266,0,71,104,36.1,104.0]],"attack":[[339,0,64,95,28.6,95.1],[405,0,67,107,39.4,106.7],[474,0,76,98,27.8,97.9],[552,0,70,102,39.2,102.1]],"hurt":[[624,0,67,100,30.1,100.0]],"idle":[[693,0,72,105,39.2,104.3],[767,0,59,103,31.6,103.2],[828,0,65,101,30.8,100.6],[895,0,64,100,27.9,99.4]]},"guardiaR":{"bh":100,"move":[[0,0,64,102,33.1,101.8],[66,0,32,96,16.4,95.6],[100,0,66,99,35.5,98.5],[168,0,66,102,39.8,101.5],[236,0,33,102,25.0,101.5],[271,0,55,99,30.9,98.2]],"attack":[[328,0,99,99,50.6,98.9],[429,0,111,100,50.5,100.0],[542,0,111,100,50.4,100.0],[655,0,101,108,60.9,107.6]],"hurt":[[758,0,100,100,51.2,100.0]],"idle":[[860,0,64,102,33.1,101.8],[926,0,32,96,16.4,95.6],[0,110,66,99,35.5,98.5],[68,110,66,102,39.8,101.5]]},"ojo":{"bh":100,"move":[[0,0,111,101,48.7,100.0],[113,0,107,101,44.5,100.0],[222,0,111,101,48.7,100.0],[335,0,106,101,44.3,100.0],[443,0,111,101,50.5,100.0],[556,0,110,101,56.2,100.0]],"attack":[[668,0,115,101,50.9,100.4],[785,0,119,100,51.9,100.0],[0,103,127,100,55.4,99.6],[129,103,120,100,51.0,100.0]],"hurt":[[251,103,114,100,50.7,100.0]],"idle":[[367,103,111,101,48.7,100.0],[480,103,107,101,44.5,100.0],[589,103,111,101,48.7,100.0],[702,103,106,101,44.3,100.0]]},"sombraC":{"bh":100,"move":[[0,0,73,100,38.6,99.6],[75,0,73,100,38.3,100.0],[150,0,73,98,38.0,98.0],[225,0,72,98,38.1,98.0],[299,0,73,98,37.9,97.7],[374,0,72,98,37.9,97.7],[448,0,75,102,39.1,101.2],[525,0,75,102,39.4,101.2],[602,0,75,102,39.3,101.2],[679,0,76,101,38.1,100.8],[757,0,75,102,39.1,101.2]],"attack":[[834,0,88,100,39.0,100.0],[924,0,90,100,36.8,100.0],[0,104,95,100,44.6,100.0],[97,104,88,98,35.9,97.8]],"hurt":[[187,104,88,100,39.0,100.0]],"idle":[[277,104,74,101,39.1,100.8],[353,104,74,102,38.7,101.2],[429,104,74,100,38.5,99.2],[505,104,73,100,38.5,99.2]]},"carcelero":{"bh":100,"move":[[0,0,68,100,37.5,100.0],[70,0,71,101,42.4,100.4],[143,0,68,100,37.0,99.6],[213,0,70,100,42.3,99.6],[285,0,71,100,39.4,100.0],[358,0,67,101,37.4,100.4]],"attack":[[427,0,97,134,43.8,133.4],[526,0,90,108,33.7,107.6],[618,0,93,93,46.0,92.4],[713,0,108,92,49.4,91.7]],"hurt":[[823,0,73,100,32.8,100.0]],"idle":[[898,0,68,101,37.6,100.2],[0,136,71,101,42.5,100.6],[73,136,68,100,37.0,99.8],[143,136,70,100,42.4,99.8]]},"S_ciudadela":{"bh":100,"move":[[0,0,71,99,35.5,98.9],[73,0,66,103,36.1,102.2],[141,0,66,99,31.9,98.5],[209,0,67,111,37.1,109.3],[278,0,68,104,33.2,103.4],[348,0,70,102,31.6,101.5]],"attack":[[420,0,152,103,28.1,102.8],[574,0,226,108,190.8,107.4]],"hurt":[[802,0,148,100,27.3,100.0]],"idle":[[0,113,73,102,36.4,101.3],[75,113,68,105,37.0,104.8],[145,113,68,101,32.7,101.0],[215,113,69,114,38.1,112.0]]}};

diff --git a/www/js/worlds.js b/www/js/worlds.js
@@ -191,21 +191,21 @@ const hqDone = () => !!(S && S.hq && S.hq.stage === 2);
     return d;
   };
 }
+function checkHeroQuest(tries = 0) {
+  const q = heroQuest(); if (!q || !S) return;
+  if (state === 'dialog' || dlg) { if (tries < 40) setTimeout(() => checkHeroQuest(tries + 1), 800); return; }
+  if (state !== 'hub') return;
+  const st = hqState();
+  if (st.stage === 0 && superDone(q.after)) {
+    st.stage = 1; st.base = nodesCleared(q.target); persist();
+    playDialog(q.start, { onEnd: () => { showStoryCard('Misión de ' + CLASS_LORE[S.cls].hero, q.title); buildHub(); } });
+  } else if (st.stage === 1 && nodesCleared(q.target) > (st.base || 0)) {
+    st.stage = 2; persist(); if (P) recalc();
+    playDialog(q.end, { onEnd: () => { showStoryCard('Misión cumplida', q.title + ' · +10% de daño y vida'); buildHub(); } });
+  }
+}
 const _goHubQ = goHub;
-goHub = function () {
-  _goHubQ();
-  setTimeout(() => {
-    const q = heroQuest(); if (!q || state !== 'hub' || !S || dlg) return;
-    const st = hqState();
-    if (st.stage === 0 && superDone(q.after)) {
-      st.stage = 1; st.base = nodesCleared(q.target); persist();
-      playDialog(q.start, { onEnd: () => { showStoryCard('Misión de ' + CLASS_LORE[S.cls].hero, q.title); buildHub(); } });
-    } else if (st.stage === 1 && nodesCleared(q.target) > (st.base || 0)) {
-      st.stage = 2; persist(); if (P) recalc();
-      playDialog(q.end, { onEnd: () => { showStoryCard('Misión cumplida', q.title + ' · +10% de daño y vida'); buildHub(); } });
-    }
-  }, 1600);
-};
+goHub = function () { _goHubQ(); setTimeout(checkHeroQuest, 1600); };
 const _buildHubQ = buildHub;
 buildHub = function () {
   _buildHubQ();

diff --git a/README.md b/README.md
@@ -34,7 +34,9 @@ Al abrir el juego por primera vez se reproduce un **video de presentación** (se
 10. **Ruptura de Límite** (Tablón → Ruptura): 5 rangos por héroe que se pagan con Esencias de Ruptura; cada uno da +12% de daño y PV, y además suben el refinado máximo hasta +15, abren un 4.º hueco de gema y, al final, un aura de Ruptura.
 11. **Trama (Acto I «El Cerrajero»)**: cuadros de diálogo con retrato en la villa y dentro de las Grietas. Morvhal, el Cerrajero, fuerza los cinco Sellos que lo encerraron y ha corrompido a los Súper Jefes; cada uno que vences libera un Sello y abre el capítulo siguiente. Los vecinos hablan según el capítulo y la tarjeta del pueblo muestra el objetivo actual.
 12. **Bendiciones de los Doce** (inspiradas en los dones de Hades II): al llenar la barra de una Grieta un 25 %, 55 % y 85 % aparece el **Altar** de uno de los doce dioses (Ira, Puntería, Escudos, Sombras, Tiempo, Suerte, Sanación, Bestias, Riqueza, Bosque, Sangre y Fiesta; en el Súper Jefe, uno al empezar). El dios ofrece tres bendiciones y eliges una. Huecos: **Ataque**, **Habilidad** y **Esquiva** (una por hueco; la nueva reemplaza a la anterior) y **Pasivas** sin límite. Rarezas Común, Rara, Épica y Heroica; si te ofrecen una que ya tienes, sube de nivel. Duran solo esa Grieta: cada partida es una combinación distinta (veneno + marca, escudos al esquivar, espíritus que disparan, barriles explosivos, segundo aliento…).
-13. Cada nivel da **5 puntos de característica** que repartes desde la bolsa 🎒. Cada característica muestra lo que te da ahora mismo, y el botón **?** explica todas.
+13. **Actos II y III**: tras los cinco Sellos se abren la **Ciudad Hundida**, el **Bosque de Cristal** y la **Ciudadela del Cerrajero**, cada una con monstruos, Guardián y Súper Jefe propios (Nereth, Lysara y Morvhal). Los Doce dioses participan en la trama y cada héroe tiene su **misión personal** (+10% de daño y vida).
+14. **Ámbar**: dentro de las Grietas, el **Mercader errante**; en la villa, los **Pactos** de Maese Ivo (re-tirar bendiciones, favor de los Doce, desafío a la muerte, segunda puerta, regateo y ofrenda inicial).
+15. Cada nivel da **5 puntos de característica** que repartes desde la bolsa 🎒. Cada característica muestra lo que te da ahora mismo, y el botón **?** explica todas.
 
 ### Controles
 
@@ -64,6 +66,8 @@ www/                  El juego (HTML5 Canvas + JavaScript, sin dependencias)
   js/dungeon.js       Mazmorra, reliquias únicas y Ruptura de Límite
   js/story.js         Trama del Acto I y cuadros de diálogo
   js/boons.js         Bendiciones de los Doce (dioses, altares y efectos en combate)
+  js/hades.js         Dúos, ataques Ω, Sello, puertas, martillo y Mercader errante
+  js/worlds.js        Mundos de los Actos II y III, misiones de héroe y Pactos
 audio/ (en www)       Música (.ogg en bucle) y efectos de sonido
 tools/audio/          Sintetizador y compositor de la banda sonora (Python)
   js/game.js          Lógica: combate, IA, Grietas, botín, HUD, interfaz
